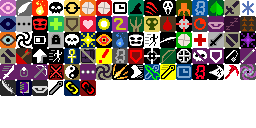
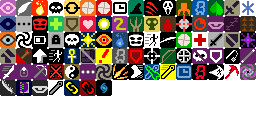
月华的贴图转换逻辑 在每个地方都要单独写 屋檐了

Changed region(s): [[0.375, 0.625, 0.4375, 0.75]]

diff --git a/core/src/main/java/com/shatteredpixel/shatteredpixeldungeon/actors/hero/abilities/moonlight/AshKing.java b/core/src/main/java/com/shatteredpixel/shatteredpixeldungeon/actors/hero/abilities/moonlight/AshKing.java
@@ -35,6 +35,7 @@ import com.shatteredpixel.shatteredpixeldungeon.items.armor.ClassArmor;
 import com.shatteredpixel.shatteredpixeldungeon.items.wands.WandOfBlastWave;
 import com.shatteredpixel.shatteredpixeldungeon.mechanics.Ballistica;
 import com.shatteredpixel.shatteredpixeldungeon.messages.Messages;
+import com.shatteredpixel.shatteredpixeldungeon.sprites.HeroSprite;
 import com.shatteredpixel.shatteredpixeldungeon.ui.BuffIndicator;
 import com.shatteredpixel.shatteredpixeldungeon.utils.GLog;
 import com.watabou.noosa.Image;
@@ -44,7 +45,7 @@ import com.watabou.utils.Bundle;
 import java.util.ArrayList;
 
 /**
- * 芪王化身护甲技能
+ * 薪王化身护甲技能
  * 月华将神器/法杖/投武转化为三种战斗形态
  * 充能消耗：50
  */
@@ -66,6 +67,7 @@ public class AshKing extends ArmorAbility {
 
 		// 激活后等待下一次使用神器/法杖/投武时触发化身
 		Buff.affect(hero, IncarnationReady.class);
+		((HeroSprite)hero.sprite).updateArmor();
 
 		armor.charge -= chargeUse(hero);
 		armor.updateQuickslot();
@@ -117,6 +119,7 @@ public class AshKing extends ArmorAbility {
 				Buff.affect(hero, HolyLanceForm.class, duration);
 				HolyLanceForm.knockbackEnemies(hero);
 				Buff.affect(hero, Light.class, Light.DURATION);
+				hero.sprite.update();
 				detach();
 				GLog.p(Messages.get(HolyLanceForm.class, "activated", duration));
 				GLog.p(Messages.get(this, "holy_lance"));
@@ -144,12 +147,20 @@ public class AshKing extends ArmorAbility {
 		}
 	}
 
+	private static class AshKingBaseBuff extends FlavourBuff {
+		@Override
+		public void detach() {
+			super.detach();
+			((HeroSprite) Dungeon.hero.sprite).updateArmor();
+		}
+	}
+
 	/**
 	 * 神佑长枪形态
 	 * 使用神器激活
 	 * 效果：照明、攻击距离+1、击退周围敌人
 	 */
-	public static class HolyLanceForm extends FlavourBuff {
+	public static class HolyLanceForm extends AshKingBaseBuff {
 
 		{
 			type = buffType.POSITIVE;

diff --git a/core/src/main/java/com/shatteredpixel/shatteredpixeldungeon/sprites/HeroSprite.java b/core/src/main/java/com/shatteredpixel/shatteredpixeldungeon/sprites/HeroSprite.java
@@ -67,7 +67,7 @@ public class HeroSprite extends CharSprite {
 		super();
 		
 		texture( hero.heroClass.spritesheet() );
-		updateHeroSpriteState();
+		updateArmor();
 		
 		link( hero );
 
@@ -79,10 +79,10 @@ public class HeroSprite extends CharSprite {
 
 	public void disguise(HeroClass cls){
 		texture( cls.spritesheet() );
-		updateHeroSpriteState();
+		updateArmor();
 	}
 
-	public void updateHeroSpriteState() {
+	public void updateArmor() {
 		int t=0;
 		Armor armor = hero.belongings.armor();
 		
@@ -92,27 +92,27 @@ public class HeroSprite extends CharSprite {
 			if (hero.buff(AshKing.HolyLanceForm.class) != null ||
 				hero.buff(AshKing.SoulStreamForm.class) != null ||
 				hero.buff(AshKing.FatalBladeForm.class) != null) {
-				t = 7;
+				t = 6;
 			}
 			// 第6行：轮椅加速状态
 			else if (hero.buff(WheelchairRush.class) != null) {
-				t = 6;
+				t = 5;
 			}
 			// 第5行：剑盾骑士天赋
 			else if (hero.hasTalent(Talent.SWORD_SHIELD_KNIGHT)) {
-				t = 5;
+				t = 4;
 			}
 			// 第3行：武器掌握天赋满层
 			else if (hero.pointsInTalent(Talent.WEAPON_MASTERY) == 5) {
-				t = 3;
+				t = 2;
 			}
 			// 第2行：穿戴其他盔甲（非布甲）
 			else if (armor != null && !(armor instanceof ClothArmor)) {
-				t = 2;
+				t = 1;
 			}
 			// 第1行：光身子或布甲
 			else {
-				t = 1;
+				t = 0;
 			}
 		}
 		// 其他角色使用原有逻辑

diff --git a/core/src/main/java/com/shatteredpixel/shatteredpixeldungeon/ui/TalentsPane.java b/core/src/main/java/com/shatteredpixel/shatteredpixeldungeon/ui/TalentsPane.java
@@ -35,6 +35,7 @@ import com.shatteredpixel.shatteredpixeldungeon.items.potions.PotionOfExperience
 import com.shatteredpixel.shatteredpixeldungeon.messages.Messages;
 import com.shatteredpixel.shatteredpixeldungeon.scenes.PixelScene;
 import com.shatteredpixel.shatteredpixeldungeon.sprites.CharSprite;
+import com.shatteredpixel.shatteredpixeldungeon.sprites.HeroSprite;
 import com.watabou.noosa.ColorBlock;
 import com.watabou.noosa.Image;
 import com.watabou.noosa.ui.Component;
@@ -191,6 +192,10 @@ public class TalentsPane extends ScrollPane {
 							//光辉灌注天赋
 							if(talent == Talent.LIGHT_STEP){
 								Dungeon.level.drop(new PotionOfExperience(),Dungeon.hero.pos);
+							}
+							// TheCatist 2026/7/30 月华剑盾骑士更新自身贴图代码
+							if (talent == Talent.SWORD_SHIELD_KNIGHT) {
+								((HeroSprite) Dungeon.hero.sprite).updateArmor();
 							}
 						}
 					}

diff --git a/core/src/main/java/com/shatteredpixel/shatteredpixeldungeon/items/artifacts/Wheelchair.java b/core/src/main/java/com/shatteredpixel/shatteredpixeldungeon/items/artifacts/Wheelchair.java
@@ -31,6 +31,7 @@ import com.shatteredpixel.shatteredpixeldungeon.mechanics.Ballistica;
 import com.shatteredpixel.shatteredpixeldungeon.messages.Messages;
 import com.shatteredpixel.shatteredpixeldungeon.scenes.CellSelector;
 import com.shatteredpixel.shatteredpixeldungeon.scenes.GameScene;
+import com.shatteredpixel.shatteredpixeldungeon.sprites.HeroSprite;
 import com.shatteredpixel.shatteredpixeldungeon.sprites.ItemSpriteSheet;
 import com.shatteredpixel.shatteredpixeldungeon.utils.GLog;
 import com.shatteredpixel.shatteredpixeldungeon.windows.WndOptions;
@@ -328,6 +329,7 @@ public class Wheelchair extends Artifact {
             Buff.affect(hero, WheelchairRush.class, duration);
 
             hero.spendAndNext(1f);
+            ((HeroSprite) hero.sprite).updateArmor();
         });
     }
 

diff --git a/core/src/main/java/com/shatteredpixel/shatteredpixeldungeon/actors/buffs/WheelchairRush.java b/core/src/main/java/com/shatteredpixel/shatteredpixeldungeon/actors/buffs/WheelchairRush.java
@@ -21,6 +21,8 @@
 
 package com.shatteredpixel.shatteredpixeldungeon.actors.buffs;
 
+import com.shatteredpixel.shatteredpixeldungeon.Dungeon;
+import com.shatteredpixel.shatteredpixeldungeon.sprites.HeroSprite;
 import com.shatteredpixel.shatteredpixeldungeon.ui.BuffIndicator;
 import com.watabou.noosa.Image;
 
@@ -52,4 +54,9 @@ public class WheelchairRush extends FlavourBuff {
 		return Math.max(0, (DURATION - visualcooldown()) / DURATION);
 	}
 
-}
+	@Override
+		public void detach() {
+			super.detach();
+			((HeroSprite) Dungeon.hero.sprite).updateArmor();
+		}
+	}

diff --git a/core/src/main/java/com/shatteredpixel/shatteredpixeldungeon/ui/BuffIndicator.java b/core/src/main/java/com/shatteredpixel/shatteredpixeldungeon/ui/BuffIndicator.java
@@ -139,6 +139,8 @@ public class BuffIndicator extends Component {
 
 	public static final int CORRUPT_SPIRIT = 86; // 术士4-4 腐化怨灵debuff
 
+	public static final int MAGIC_POINT = 87;
+
 	public static final int SIZE_SMALL  = 7;
 	public static final int SIZE_LARGE  = 16;
 

diff --git a/core/src/main/java/com/shatteredpixel/shatteredpixeldungeon/actors/buffs/MagicPoint.java b/core/src/main/java/com/shatteredpixel/shatteredpixeldungeon/actors/buffs/MagicPoint.java
@@ -136,7 +136,7 @@ public class MagicPoint extends Buff implements ActionIndicator.Action {
 
     @Override
     public int icon() {
-        return BuffIndicator.MAGIC_SLEEP; // 临时使用一个图标
+        return BuffIndicator.MAGIC_POINT;
     }
 
     @Override
